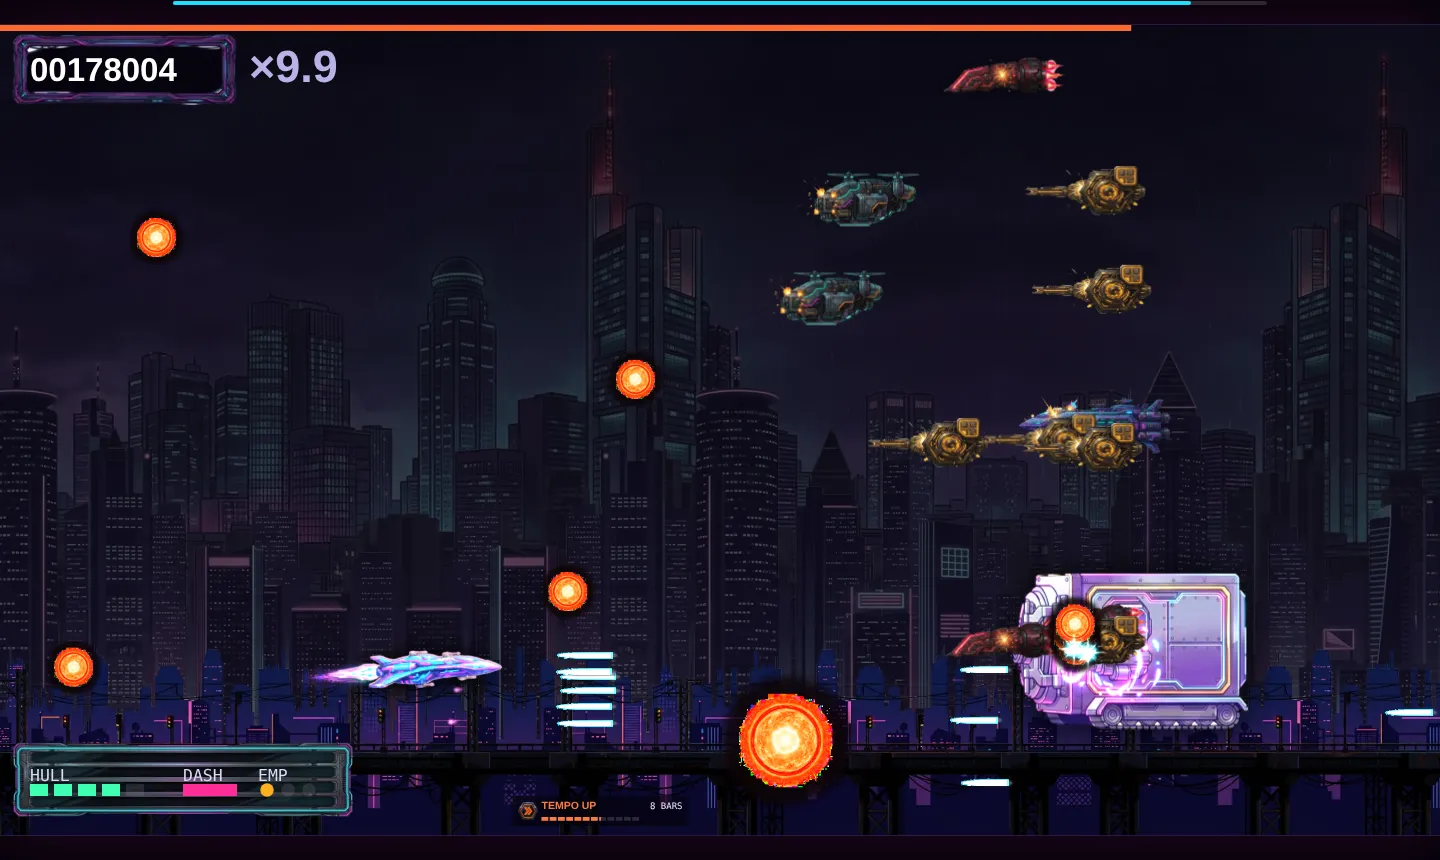
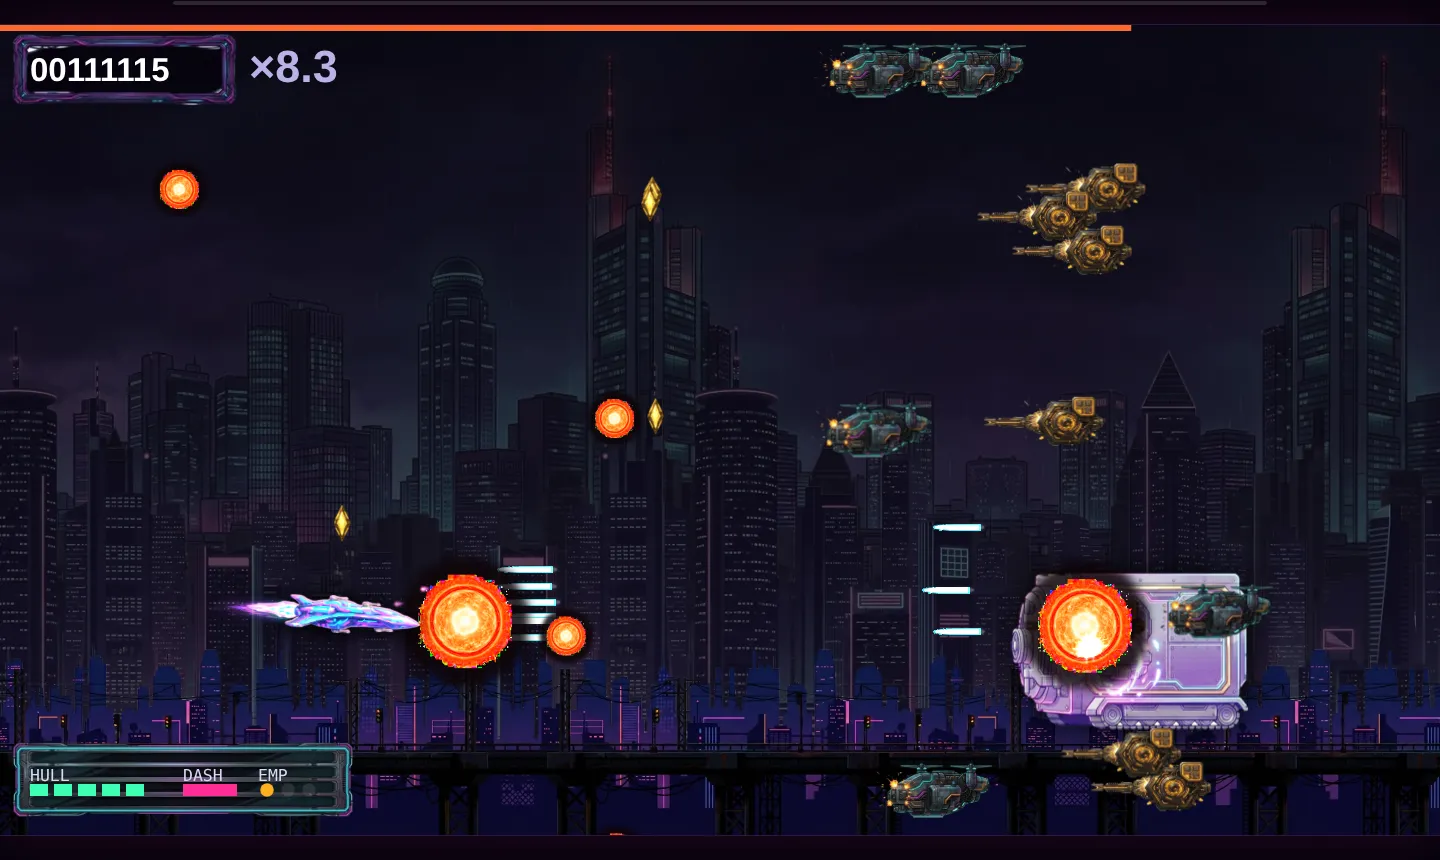
W231 flight: boss lift curve, turret family off gold, foe rim up, review shots

diff --git a/games-src/nightrun/parts/render/pure.js b/games-src/nightrun/parts/render/pure.js
@@ -37,18 +37,20 @@ const PURL=window.PURL={K:90/520,get ph(){return wcv!==cv||Math.min(innerWidth,i
     ctx.save();ctx.translate(e.x,e.y);if(rot)ctx.rotate(rot);if(m.gnd)ctx.translate(0,e.r-sc*s[3]/2);
     if(this.HALO)this.pool(1,w*.45,0,sc*s[3]);if(!this.lit(key,(e.t||0)+eb_(e),sc,rot))ART.drawAnim(ctx,key,(e.t||0)+eb_(e),0,0,sc,false);ctx.restore();
     e._fs=sc;e._fa=FOEART.fr;e._fk=FOEART.fr;return true;},
+  HUE:{'ship-eturret':-30},   // W231: gold is the pickups' hue; the brass gunship family turns copper-red (the enemy-shot family)
   PF:'saturate(1.3) brightness(2.5)',   // W231: the player's value lift: the clearest actor on the screen (qa/w231probe.js: player contrast >= every foe's)
   HALO:1,   // W224 probe switch (qa/w224probe.js measures the sprite without its halo)
   get LD(){const d=1.5/S;return wcv!==cv?[d,d]:[d,-d];},   // the key light (top-right pink neon) in world units: the phone world is turned a quarter
   cel(key,sc,kd){const o=ART.aS(key),b0=o&&ART.anim(key);if(!b0)return null;const m=o.m,w=m[2],h=m[3],cw=Math.max(1,Math.round(w*sc*S)),C=this.CC||(this.CC=new Map()),k=key+'|'+cw+kd;let q=C.get(k);if(q)return q;   // W224: one cached strip per sheet, drawn size and kind: h = soft dark halo, b = warm value pass (W227: a warm key, the family of the enemy shots, so threats are the warmest and lightest actors), r = neon rim tint
     const ch=Math.max(1,Math.round(h*cw/w)),p=kd==='h'?Math.ceil(Math.max(cw,ch)*.12)+3:kd==='r'?2:0,fw=cw+2*p,fh=ch+2*p,c=document.createElement('canvas');c.width=fw*m[0];c.height=fh;const g=c.getContext('2d');g.imageSmoothingQuality='high';
-    g.filter=kd==='h'?`brightness(0) blur(${Math.max(1.5,p/2.2)}px)`:kd==='b'?'sepia(.35) saturate(2) brightness(2.2)':kd==='B'?'sepia(.25) saturate(1.5) brightness(2)':kd==='p'?this.PF:'none';   /* W231: B = the boss (milder: the 'b' pass clipped it to white), p = the player lift */for(let j=0;j<m[0];j++)g.drawImage(b0,j*w,0,w,h,j*fw+p,p,cw,ch);g.filter='none';
+    g.filter=kd==='h'?`brightness(0) blur(${Math.max(1.5,p/2.2)}px)`:kd==='b'?`sepia(.35) saturate(2)${this.HUE[key.split('/')[0]]?` hue-rotate(${this.HUE[key.split('/')[0]]}deg)`:''} brightness(2.2)`:kd==='B'?'sepia(.25) saturate(1.4)':kd==='p'?this.PF:'none';   /* W231: B = the boss (milder: the 'b' pass clipped it to white), p = the player lift */for(let j=0;j<m[0];j++)g.drawImage(b0,j*w,0,w,h,j*fw+p,p,cw,ch);g.filter='none';
     if(kd==='r'){const d=g.getImageData(0,0,c.width,c.height),a=d.data;for(let i=0;i<a.length;i+=4){a[i]=255;a[i+1]=110;a[i+2]=225;}g.putImageData(d,0,0);}
+    if(kd==='B'){const d=g.getImageData(0,0,c.width,c.height),a=d.data,L=new Uint8Array(256);for(let v=0;v<256;v++)L[v]=Math.round(255*(1-Math.pow(1-v/255,3)));for(let i=0;i<a.length;i+=4){a[i]=L[a[i]];a[i+1]=L[a[i+1]];a[i+2]=L[a[i+2]];}g.putImageData(d,0,0);}   // W231: the boss lift is a curve (darks and mids up, highlights kept under white), not brightness(): its hit / attack frames clipped
     C.set(k,q={c,fw,fh,p,cw});return q;},
   dcel(key,t,sc,kd,ox,oy,al){const q=this.cel(key,sc,kd);if(!q)return false;const o=ART.aS(key),m=o.m,u=m[2]*sc/q.cw,i=ART.aframe(key,t);if(al!=null)ctx.globalAlpha=al;
     ctx.drawImage(q.c,i*q.fw,0,q.fw,q.fh,ox-m[4]*sc-q.p*u,oy-m[5]*sc-q.p*u,q.fw*u,q.fh*u);ctx.globalAlpha=1;return true;},
   lit(key,t,sc,rot){if(!this.cel(key,sc,'b'))return false;const[lx,ly]=this.LD,c=Math.cos(-rot||0),s_=Math.sin(-rot||0);   // W224: halo behind, neon rim on the light side, then the brightened sprite
-    if(this.HALO){this.dcel(key,t,sc,'h',0,0,.9);this.dcel(key,t,sc,'h',0,0,.65);ctx.globalCompositeOperation='lighter';this.dcel(key,t,sc,'r',lx*c-ly*s_,lx*s_+ly*c,.3);ctx.globalCompositeOperation='source-over';}
+    if(this.HALO){this.dcel(key,t,sc,'h',0,0,.9);this.dcel(key,t,sc,'h',0,0,.4);ctx.globalCompositeOperation='lighter';this.dcel(key,t,sc,'r',lx*c-ly*s_,lx*s_+ly*c,.5);ctx.globalCompositeOperation='source-over';}
     return this.dcel(key,t,sc,'b',0,0);},
   pool(o,x,y,hh){const n='fx-engine',P_=this.PL||(this.PL={});let b=P_[o];   // W224: the engine light spilling on the haze behind a ship (the owner's fx-engine, blurred once; orange for enemies)
     if(!b){const s0=ART.bm[n];if(!s0){if(s0===undefined)ART.load(n);return;}b=P_[o]=document.createElement('canvas');b.width=s0.width+80;b.height=s0.height+80;const g=b.getContext('2d');g.filter='blur(12px)';g.drawImage(s0,40,40);
